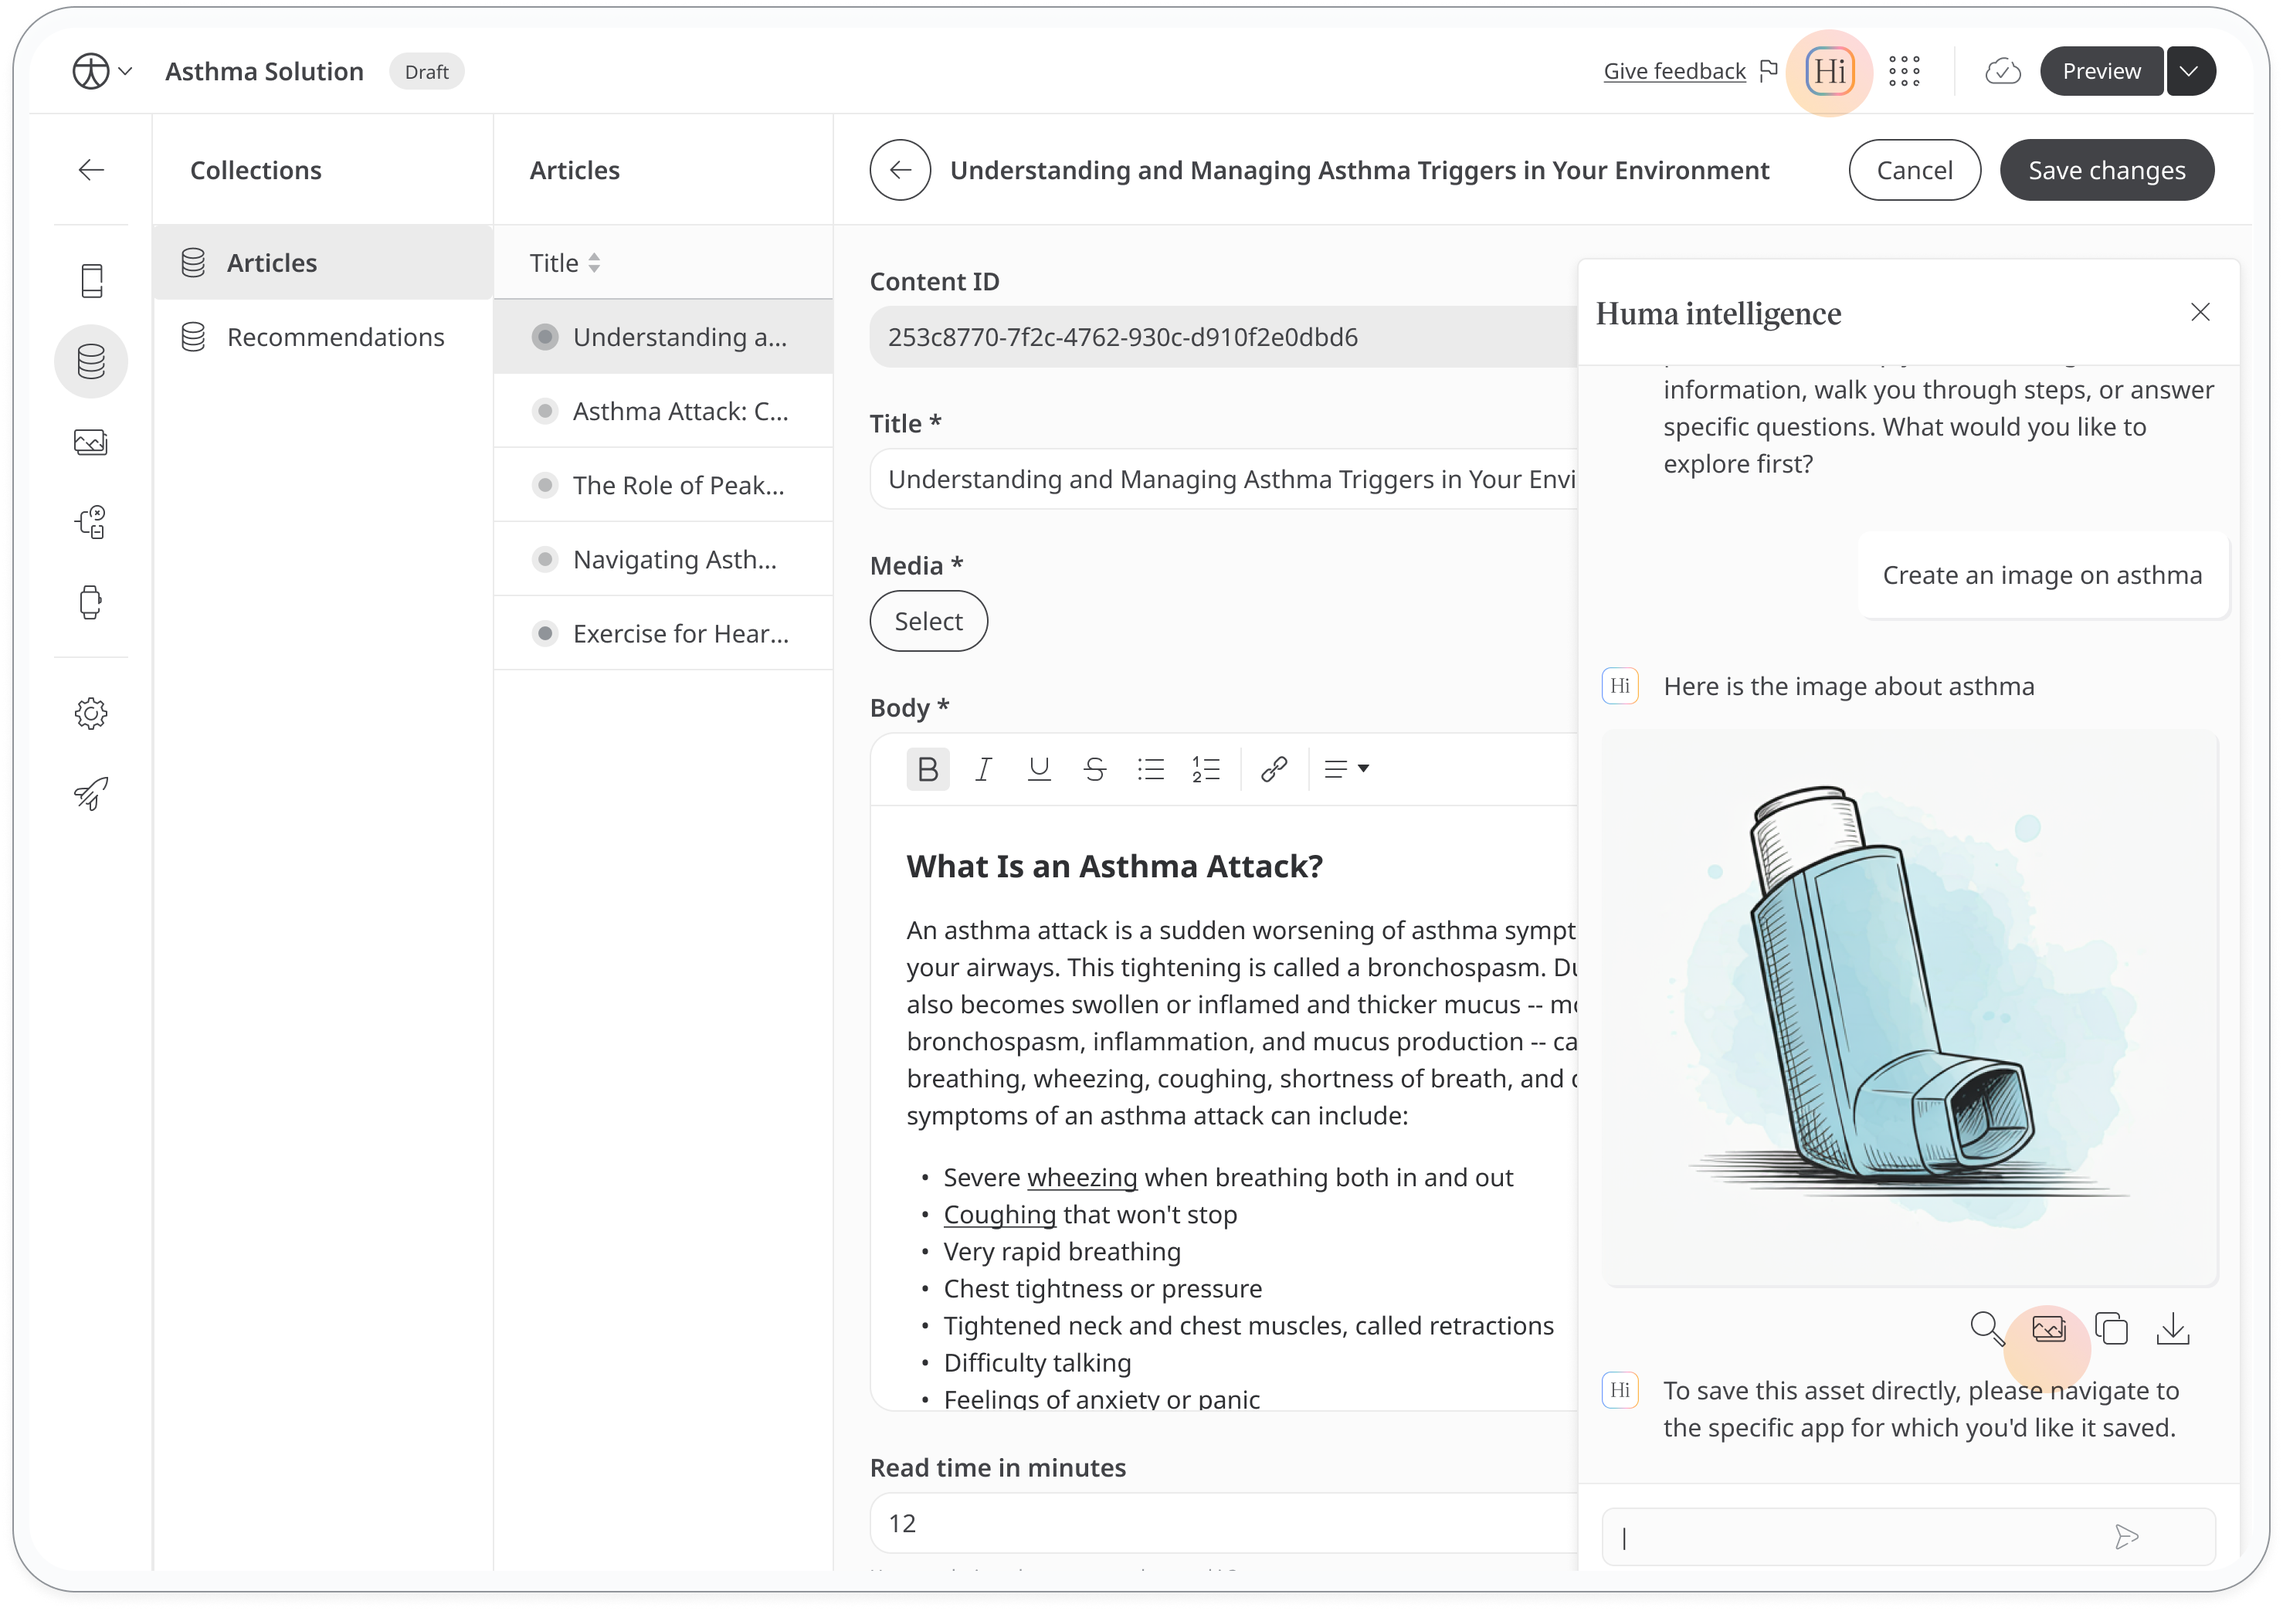
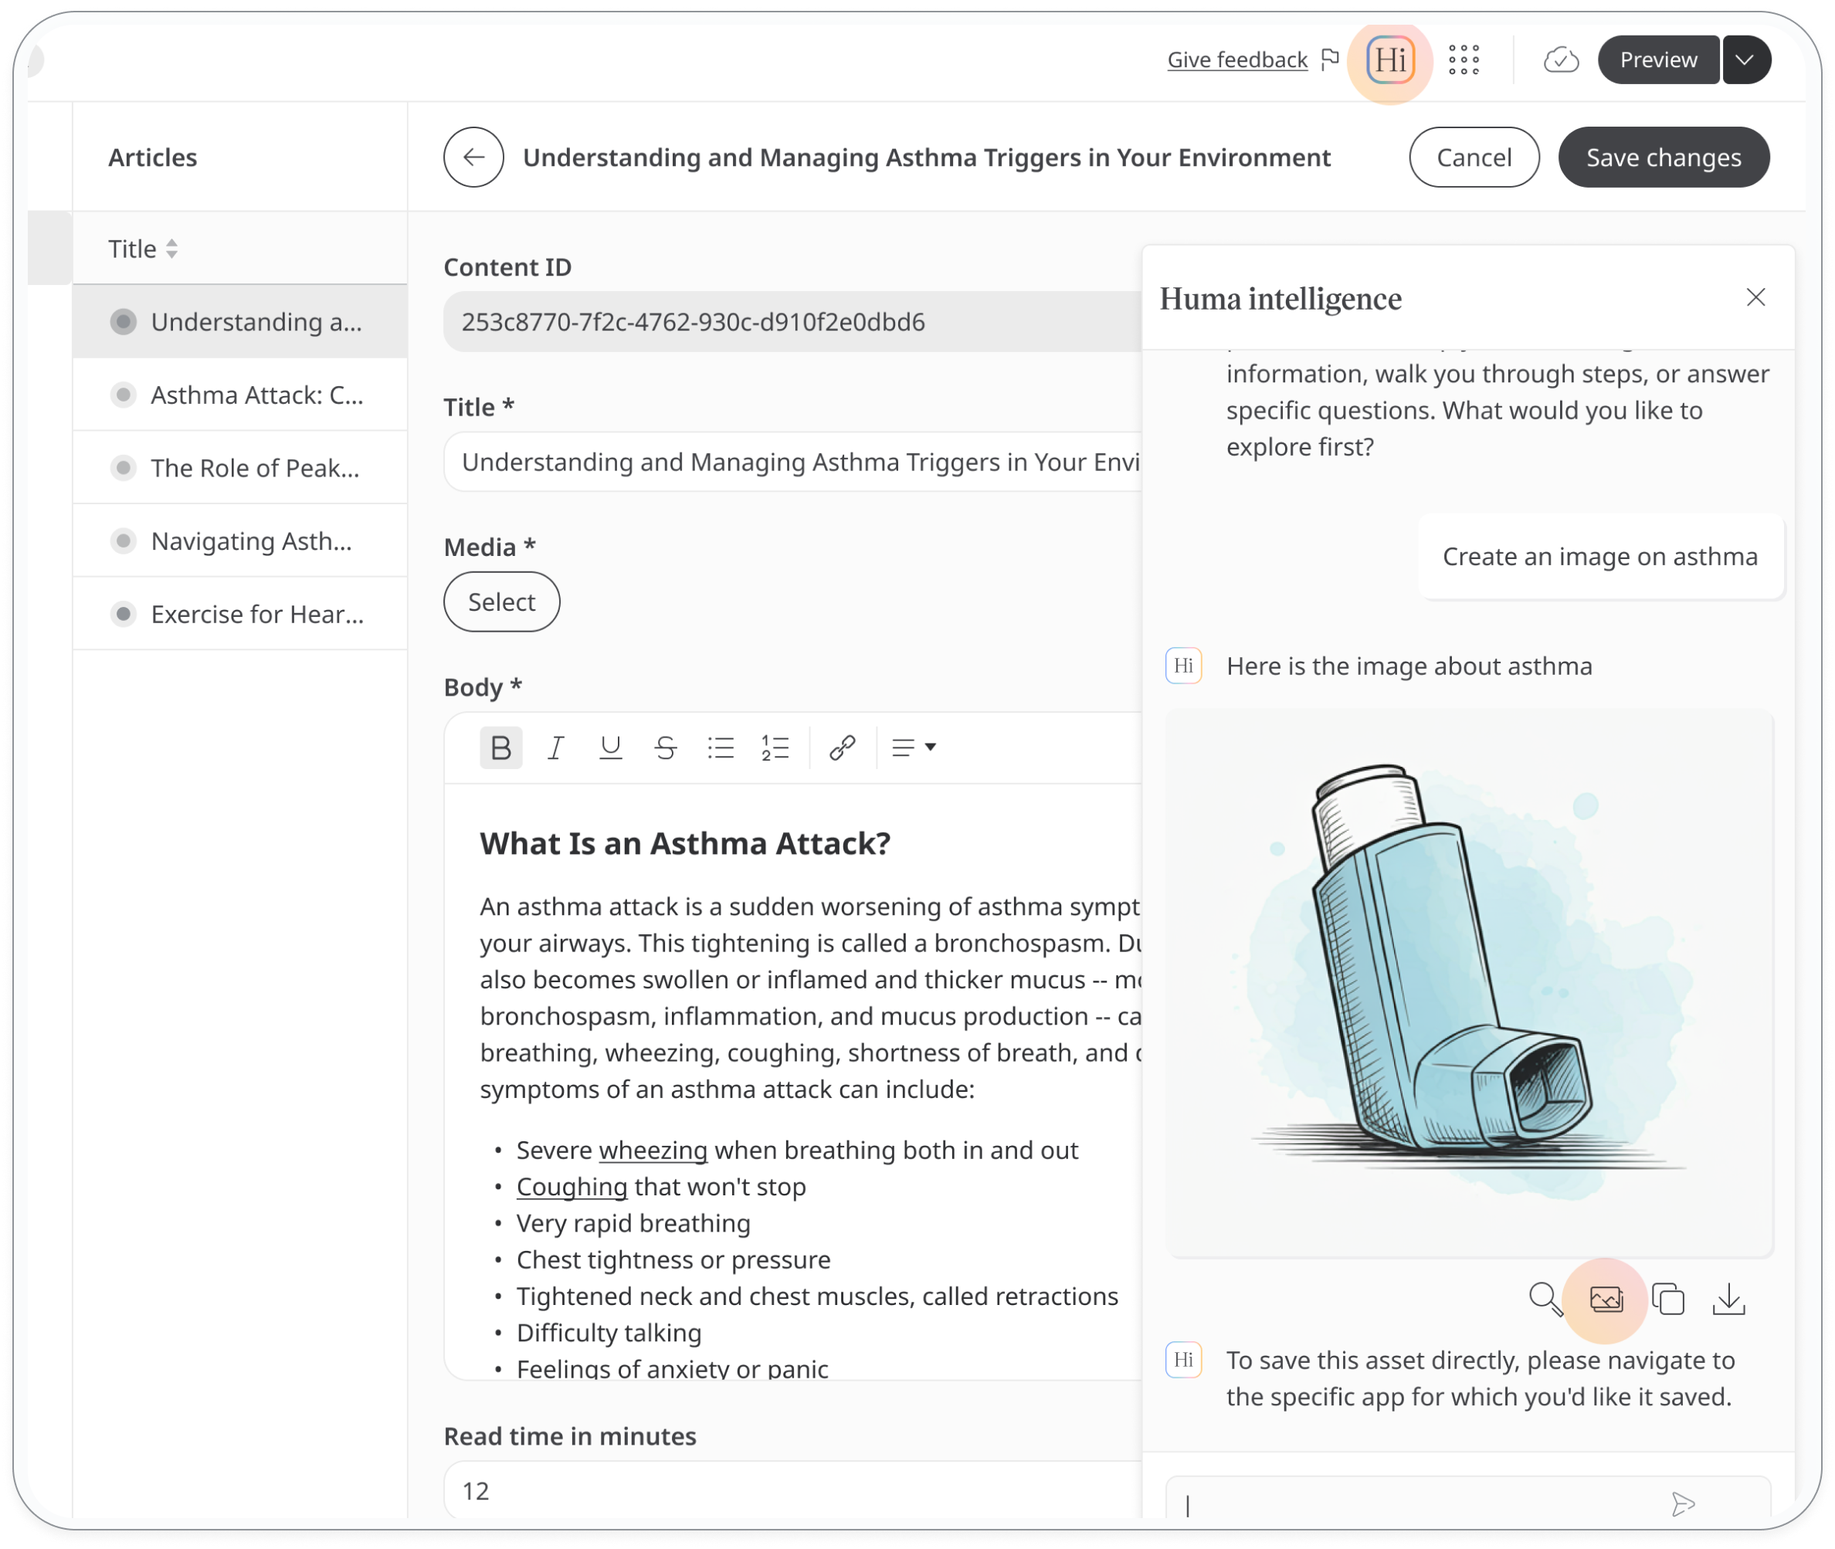
HI content

diff --git a/data-collection/builder/creating-app-content/index.md b/data-collection/builder/creating-app-content/index.md
@@ -35,6 +35,21 @@ Assets like images and videos can be uploaded to visually enhance your articles 
 ![alt text](<../assets/Upload media-1.png>)
 
 ![alt text](<../assets/Upload media-2.png>)
+
+### How to Use HI to Generate Images for Your Articles
+
+Enhance your articles with engaging visuals using the HI feature. Here’s how you can easily create and integrate images into your content:
+
+1. After writing your article or content, click on the<span style={{ backgroundColor: '#EBEBEB', padding: '0 5px', borderRadius: '5px' }}> HI </span> icon at the top of the navigation bar.
+2. You have two options:
+    * Copy and paste your full article into the prompt.
+    * Simply write a title or key details about your article and ask HI to generate an image.
+3. Once the image is generated, review it. If you're happy with the result, click on the image asset. It will be automatically saved into the<span style={{ backgroundColor: '#EBEBEB', padding: '0 5px', borderRadius: '5px' }}> My Assets</span> section.
+4. When you're ready to include the image, click on<span style={{ backgroundColor: '#EBEBEB', padding: '0 5px', borderRadius: '5px' }}>Media</span> in your article editor. You'll find the image in My Assets, ready to be added to your content.
+
+![alt text](<../assets/Upload media-3.png>)
+
+![alt text](<../assets/Upload media-4.png>)
 ### Adding content to your app
  
 Once you have created a few content pieces, you can start adding those to the desired pages of your app. 
@@ -52,9 +67,14 @@ Once you have created a few content pieces, you can start adding those to the de
 
 ![alt text](<../assets/Feature articles-1.png>)
 - <span style={{ backgroundColor: '#EBEBEB', padding: '0 5px', borderRadius: '5px' }}>Filter by tags</span> allows you to add content with specific tags.
- 
- ![alt text](<../assets/Feature articles-2.png>)
 - <span style={{ backgroundColor: '#EBEBEB', padding: '0 5px', borderRadius: '5px' }}>Manual list</span> allows you to search and add available content in the CMS. 
+
+![alt text](<../assets/Feature articles-2.png>)
+
+![alt text](<../assets/Feature articles-3.png>)
+
+![alt text](<../assets/Feature articles-4.png>)
+
 - <span style={{ backgroundColor: '#EBEBEB', padding: '0 5px', borderRadius: '5px' }}>Advanced query</span> allows you to apply advanced logic to which content pieces will be shown.
   
 ### Advanced Query
